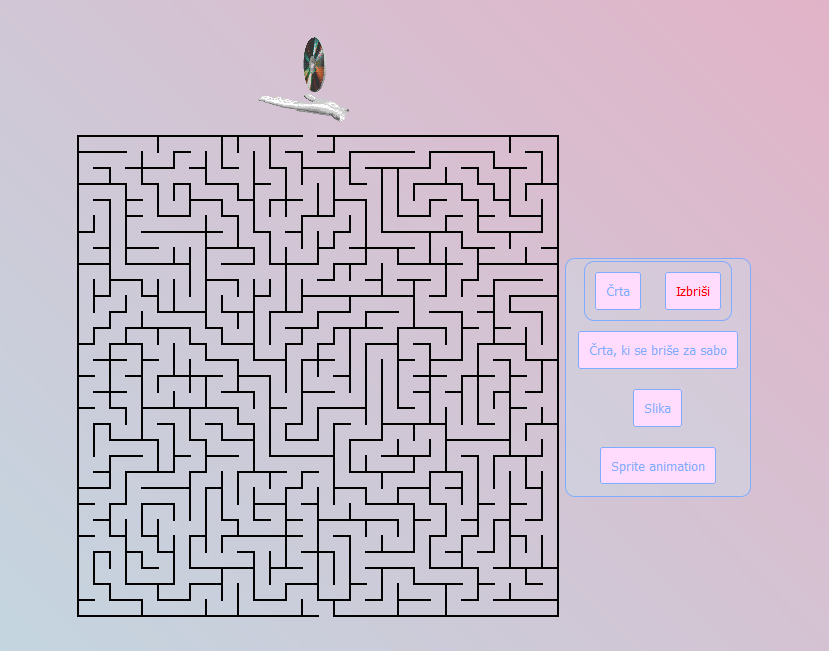
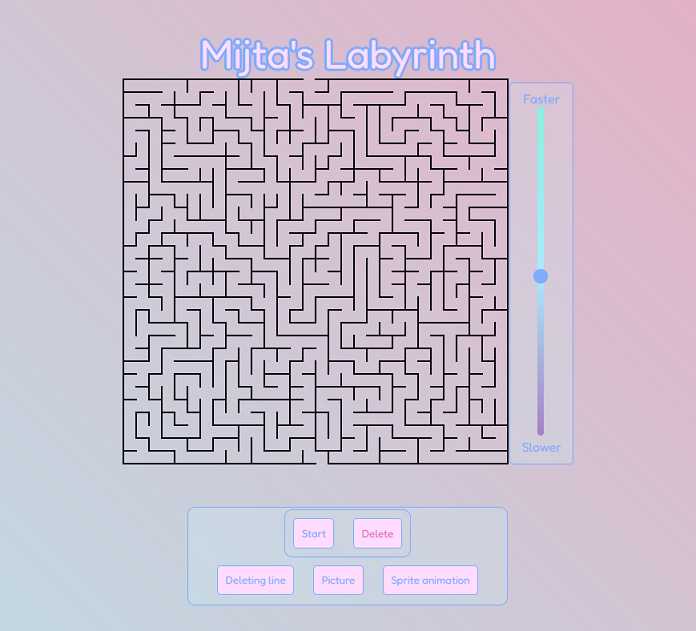
title added and styled, new read me pictures, lower audio, different font

Changed region(s): [[0.0905, 0.0602, 0.9052, 0.9635]]

diff --git a/style.css b/style.css
@@ -6,7 +6,7 @@
 
 
 body {
-    font-family: Arial, sans-serif;
+    font-family: 'Fredoka', sans-serif;
     background: linear-gradient(45deg, rgba(239, 232, 223, 0.85), rgba(182, 210, 221, 0.85), rgba(222, 164, 189, 0.85), rgba(165, 129, 196, 0.85), rgba(170, 235, 152, 0.85), rgba(138, 220, 222, 0.85));
     background-size: 300% 300%;
     animation: gradientAnimation 15s ease infinite;
@@ -19,16 +19,33 @@ body {
 
 #lab-but {
     max-width: fit-content;
-    margin-right: auto;
-    margin-left: auto;
-    margin-bottom: 3rem;
+    margin: 0 auto 3rem;
     display: flex;
     justify-content: center;
     align-items: center;
 }
 
-.title{
+.titlecontainer {
     margin-top: auto;
+}
+
+/* LAYERD TEXT ZA NAREDIT OUTLINE NA CUSTOM FONTU */
+/* MAIN TEXT*/
+.nameTitle {
+    color: rgb(255, 220, 253);
+    font-size: 50px;
+    position: relative;
+}
+
+/* LAYERD TEXT ODZADAJ Z-INDEX POMEMBEN, VECJI WEBKIT TEXT STROKE DEBELJESI OUTLINE*/
+.nameTitle::before {
+    content: "Mijta's Labyrinth";
+    position: absolute;
+    top: 0;
+    left: 0;
+    z-index: -1;
+    color: rgb(127, 172, 255);
+    -webkit-text-stroke: 6px rgb(127, 172, 255);
 }
 
 #main {
@@ -65,7 +82,6 @@ body {
     padding: 2px;
     background-color: rgba(202, 252, 255, 0.2);
     width: 25rem;
-
 }
 
 button {
@@ -75,6 +91,7 @@ button {
     background-color: rgb(255, 220, 253);
     color: rgb(127, 172, 255);
     margin: 10px;
+    font-family: 'Fredoka', sans-serif;
 }
 
 button:hover {
@@ -112,10 +129,10 @@ button:disabled {
 
 input[type="range"] {
     margin-left: 1.5rem;
-    -webkit-appearance: none; 
+    -webkit-appearance: none;
     appearance: none;
-    writing-mode: bt-rl; 
-    width: 0.5rem; 
+    writing-mode: bt-rl;
+    width: 0.5rem;
     height: 90%;
     background: none;
     outline: none;
@@ -125,10 +142,10 @@ input[type="range"] {
 input[type="range"]::-moz-range-track {
     background: linear-gradient(rgb(138, 240, 222), rgb(170, 235, 1525), rgb(165, 129, 196));
     height: 100%;
-    width: 0.5rem; 
+    width: 0.5rem;
     border: none;
     border-radius: 5px;
-} 
+}
 
 input[type="range"]::-moz-range-thumb {
     -webkit-appearance: none;
@@ -138,15 +155,15 @@ input[type="range"]::-moz-range-thumb {
     border-radius: 10px;
     height: 1rem;
     width: 1rem;
-} 
+}
 
 input[type="range"]::-webkit-slider-runnable-track {
-    background: linear-gradient(rgb(165, 129, 196), rgb(170, 235, 1525), rgb(138, 240, 222) );
-    height: 100%; 
-    width: 0.5px; 
+    background: linear-gradient(rgb(165, 129, 196), rgb(170, 235, 1525), rgb(138, 240, 222));
+    height: 100%;
+    width: 0.5px;
     border: none;
     border-radius: 5px;
-    writing-mode: vertical-lr; 
+    writing-mode: vertical-lr;
     transform: rotate(180deg);
 }
 

diff --git a/js/javascript.js b/js/javascript.js
@@ -5,7 +5,8 @@ document.addEventListener("DOMContentLoaded", function (event) {
     let animating = false;
     let crta = 0;
     let audio = document.getElementById("muzik");
-
+    
+    
     function narisi() {
         const canvas = document.getElementById('canvas');
         const ctx = canvas.getContext("2d");
@@ -92,6 +93,7 @@ document.addEventListener("DOMContentLoaded", function (event) {
             this.disabled = true;
             audio.currentTime = 0;
             audio.play();
+            audio.volume = 0.2;
             document.getElementById("erase").disabled = true;
             document.getElementById("oboje").disabled = true;
             document.getElementById("sprite").disabled = true;
@@ -182,6 +184,7 @@ document.addEventListener("DOMContentLoaded", function (event) {
         if (!animatingdel) {
             audio.currentTime = 0;
             audio.play();
+            audio.volume = 0.2;
             animatingdel = true;
             this.disabled = true;
             document.getElementById("start").disabled = true;
@@ -337,6 +340,7 @@ document.addEventListener("DOMContentLoaded", function (event) {
         if (!animating && !animatingdel) {
             audio.currentTime = 0;
             audio.play();
+            audio.volume = 0.2;
             animating = true;
             animatingdel = true;
             this.disabled = true;
@@ -422,6 +426,7 @@ document.addEventListener("DOMContentLoaded", function (event) {
         if (!animating) {
             audio.currentTime = 0;
             audio.play();
+            audio.volume = 0.2;
             animating = true;
             this.disabled = true;
             document.getElementById("start").disabled = true;
@@ -533,6 +538,7 @@ document.addEventListener("DOMContentLoaded", function () {
         if (!animating) {
             audio.currentTime = 0;
             audio.play();
+            audio.volume = 0.2;
             animating = true;
             this.disabled = true;
             document.getElementById("start").disabled = true;

diff --git a/index.html b/index.html
@@ -6,11 +6,12 @@
     <title>Labirint</title>
     <link rel="stylesheet" href="style.css">
     <link rel="icon" type="image/png" href="img/icon.png">
+    <link href="https://fonts.googleapis.com/css2?family=Fredoka:wght@400;700&display=swap" rel="stylesheet">
 </head>
 
 <body>
     <div id="main">
-        <div class="title">Soundwave Labyrinth</div>
+        <div class="titlecontainer"><a class="nameTitle">Mijta's Labyrinth</a></div>
         <div id="lab-but">
             <div class="labry">
                 <canvas width="484" height="484" id="canvas"></canvas>
@@ -472,7 +473,7 @@
                     <a>Slower</a>
                 </div>
             </div>
-        </div>        
+        </div>
         <div class="btns">
             <div id="crta">
                 <button class="start-btn" type="button" id="start">Start</button>
@@ -496,4 +497,4 @@
 
 </html>
 
-<!-- nekako maze malo bol v sredino, glasba, nek naslov, se kak dodatek ce se spomnis, maybe ustavi risanje vmes,-->
+<!-- nekako maze malo bol v sredino-->

diff --git a/README.md b/README.md
@@ -17,7 +17,7 @@ Na teji strani imam labirint narisan kot svg, v katerem z več različnimi nači
 
 ## Slike
 
-![Slika labirinta](img/readme-1.png)
+![Slika labirinta](img/readme1.png)
 
 ![Slika labirinta z rešitvijo črte](img/readme2.png)
 
